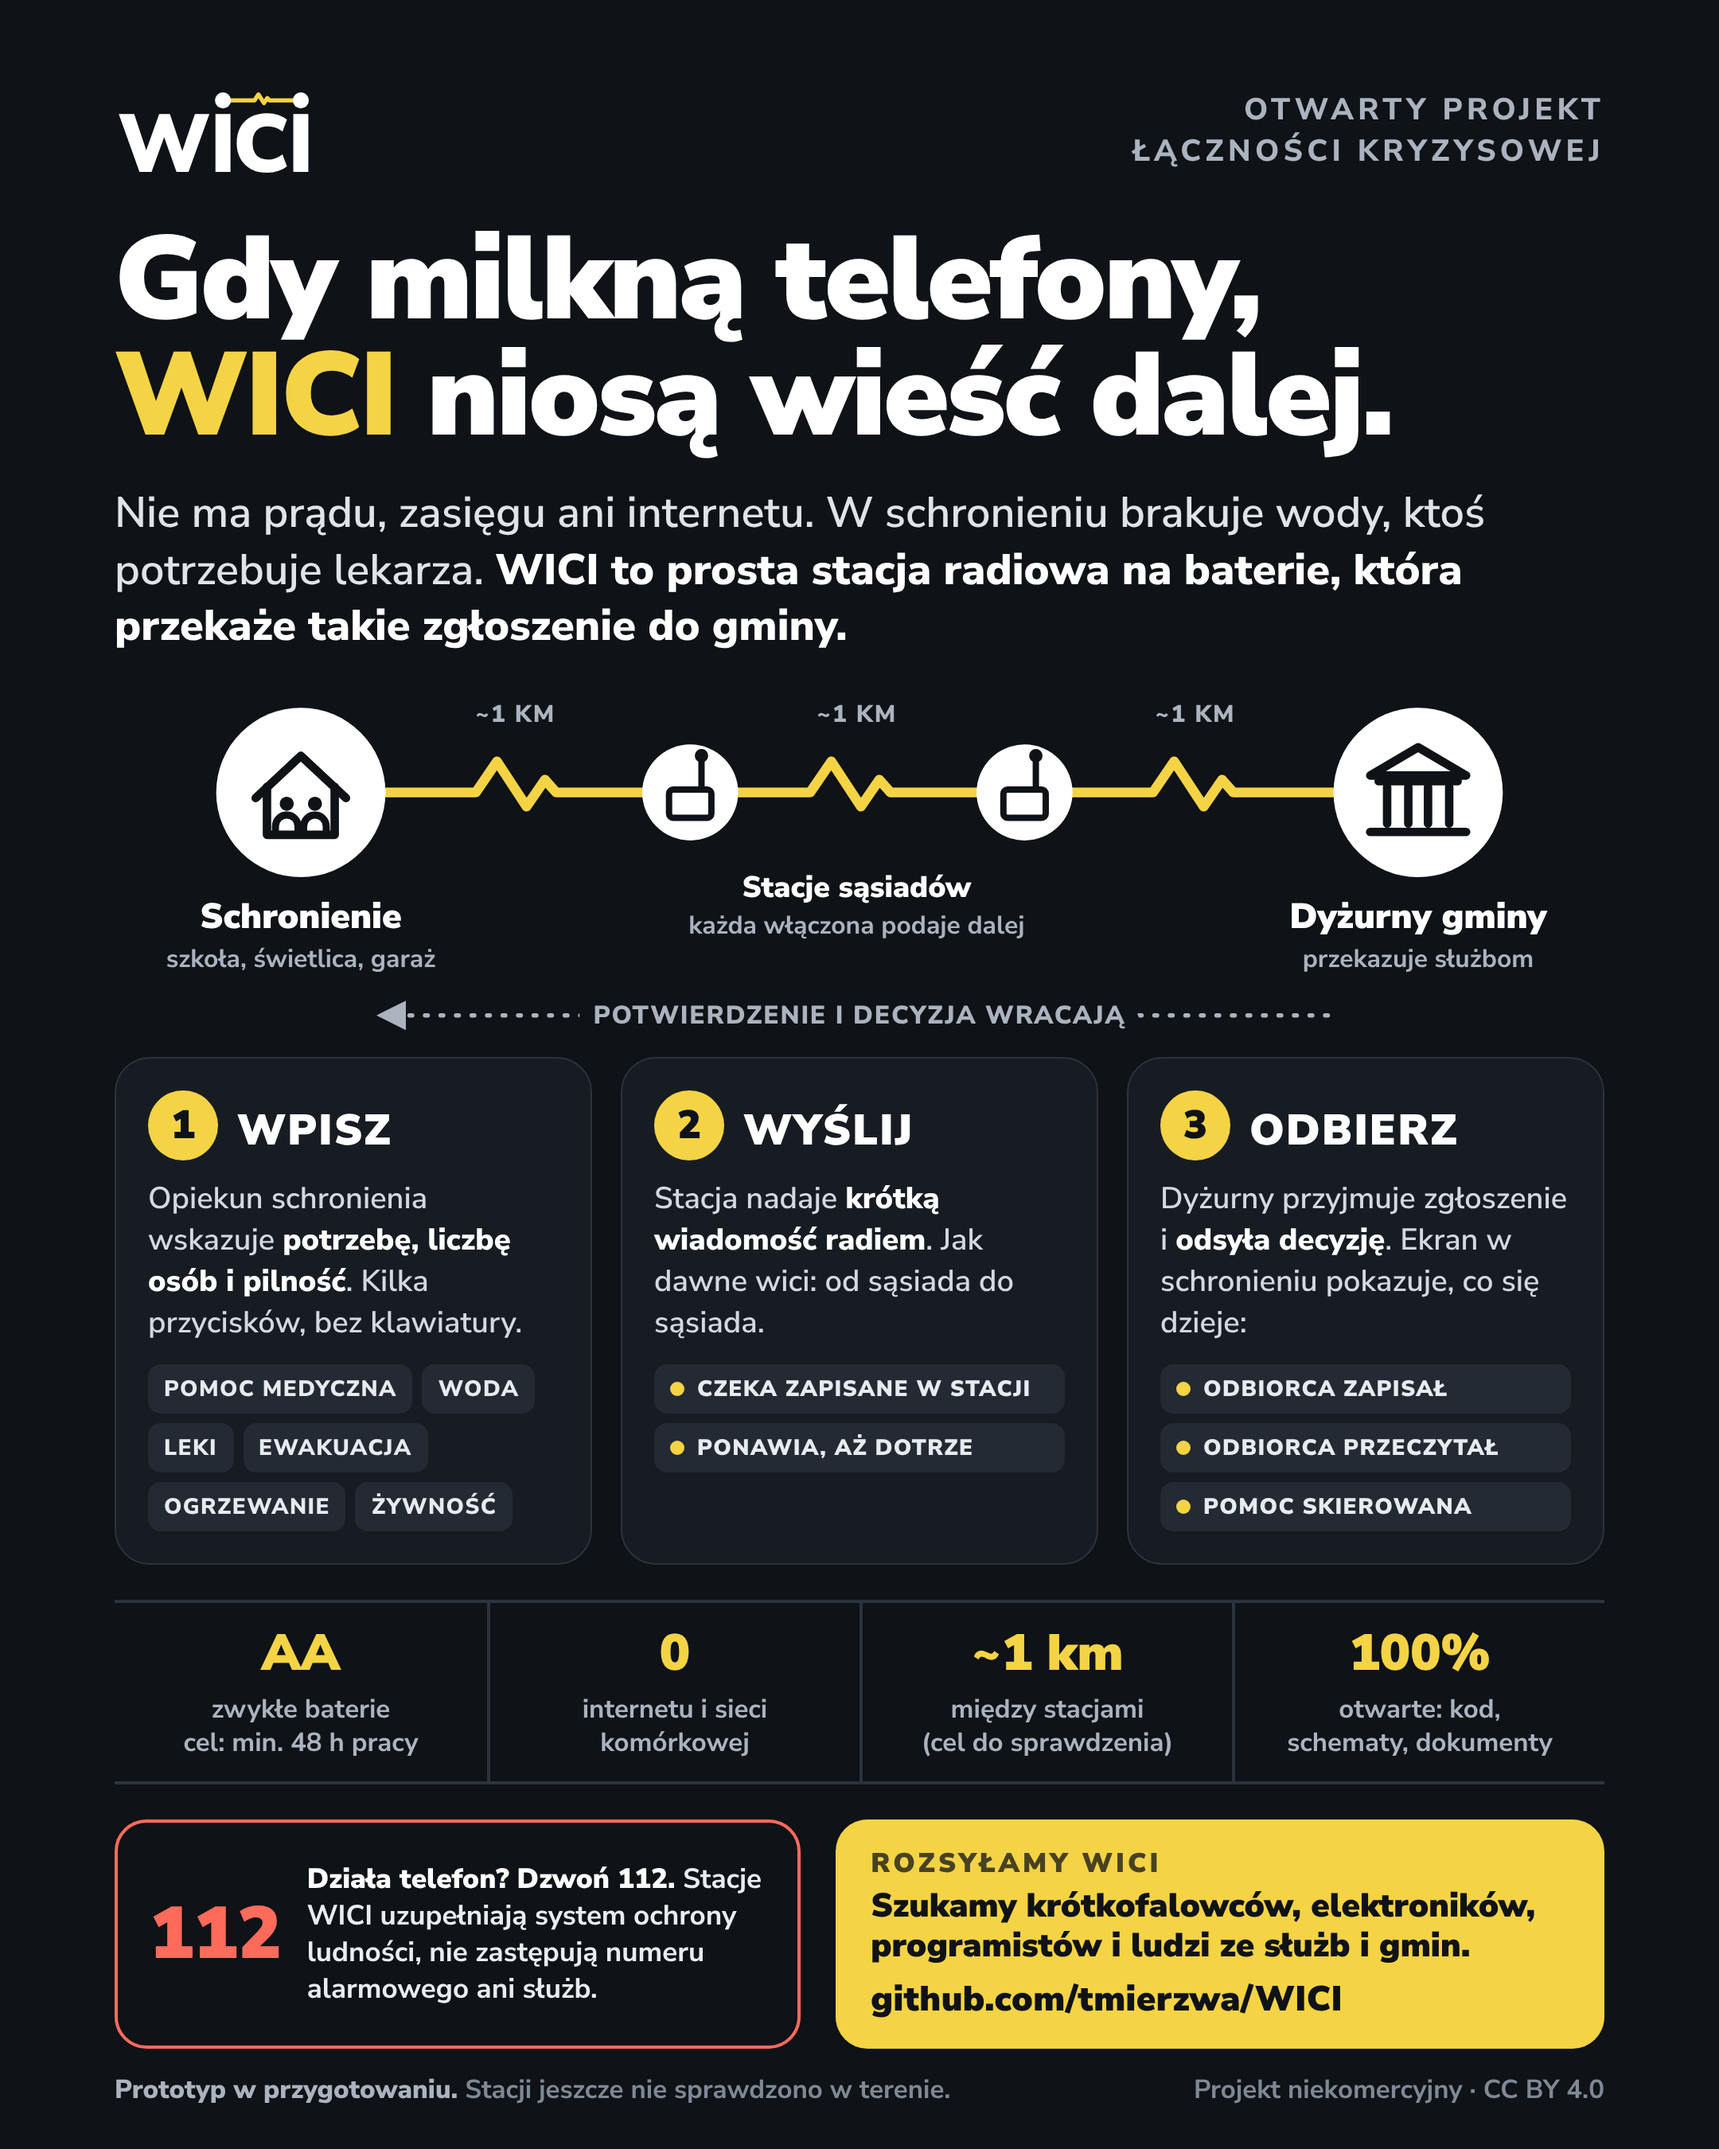
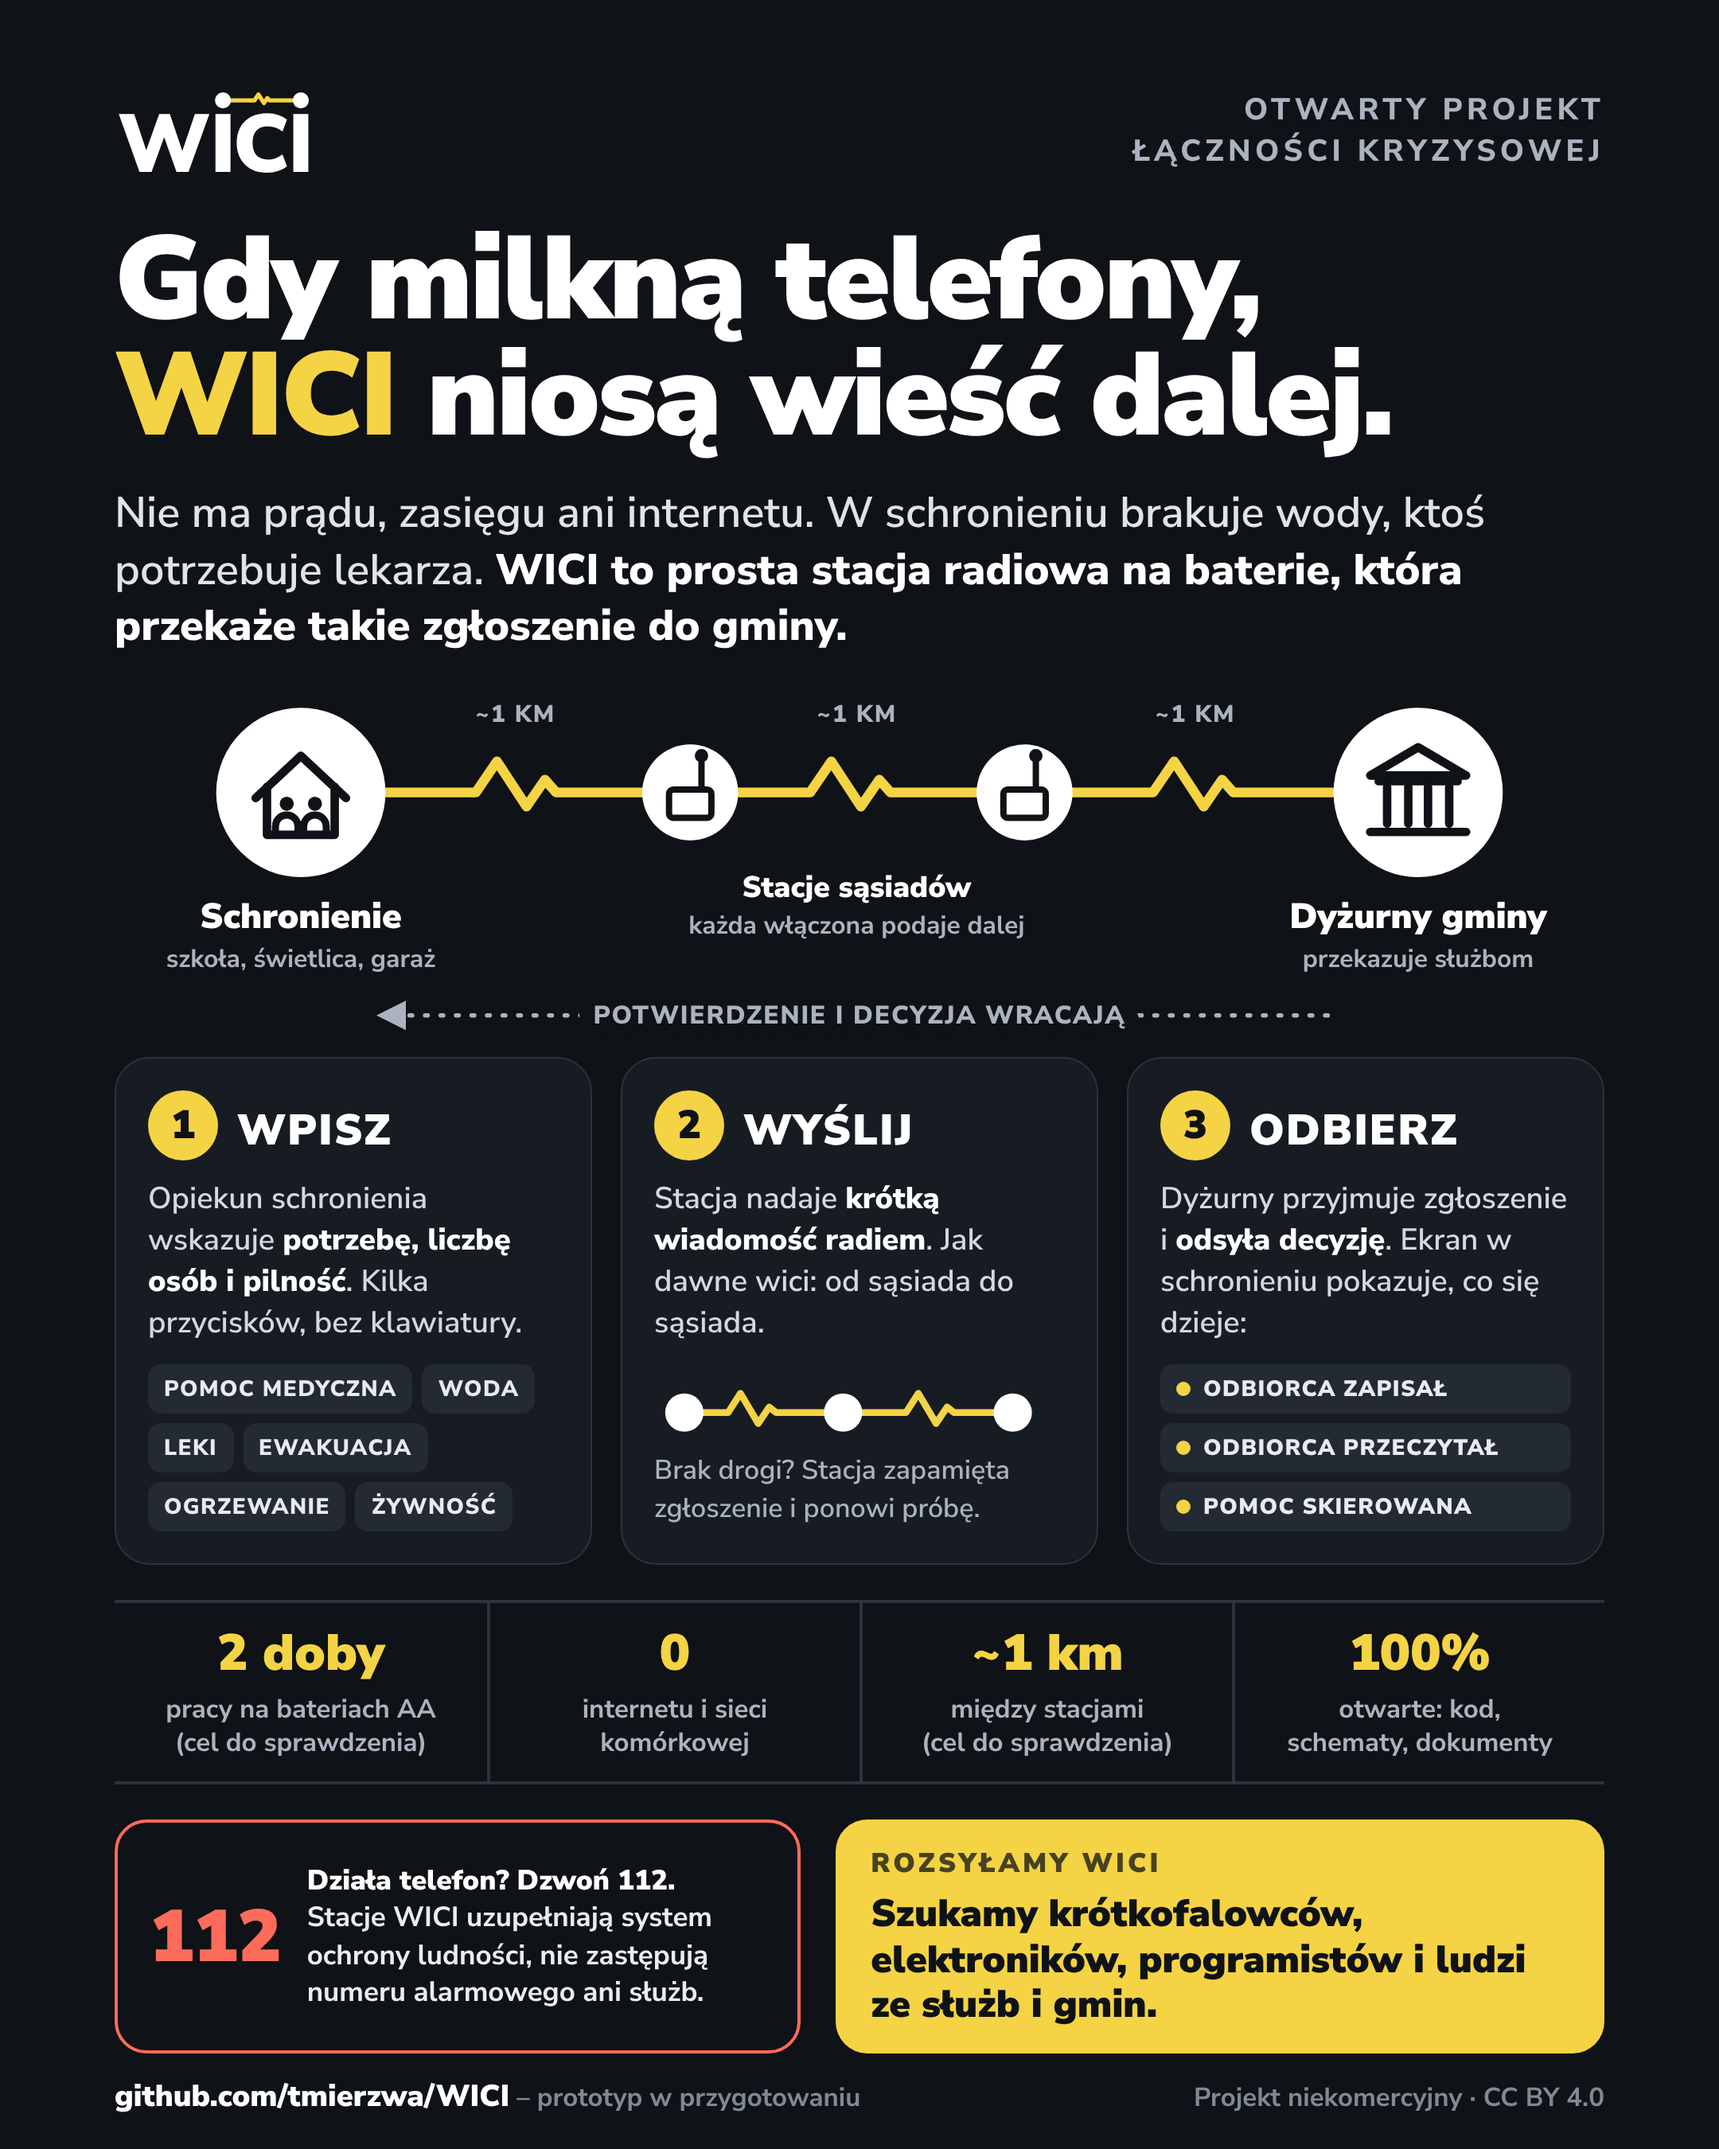
Infographic: relay graphic in step 2, battery days, link in footer
Claude-Session: https://claude.ai/code/session_01WCkYsu6pvnXAe7WXZ7mzF5

diff --git a/media/infografika/infografika.html b/media/infografika/infografika.html
@@ -52,11 +52,15 @@ h1 em{font-style:normal;color:var(--sig)}
 .warn p b{color:var(--ink);font-weight:900}
 .cta{background:var(--sig);color:var(--bg);border-radius:20px;padding:16px 22px}
 .cta .k{font-size:17px;font-weight:950;letter-spacing:.12em;text-transform:uppercase;opacity:.75}
-.cta .h{margin-top:3px;font-size:21px;line-height:1.2;font-weight:950}
+.cta{display:flex;flex-direction:column;justify-content:center}
+.cta .h{margin-top:6px;font-size:24px;line-height:1.2;font-weight:950}
 .cta .u{margin-top:6px;font-size:22px;font-weight:950;letter-spacing:.01em}
 
 .foot{margin-top:14px;display:flex;justify-content:space-between;font-size:16.5px;font-weight:700;color:#7f8996}
-.foot b{color:var(--muted);font-weight:850}
+.foot b{color:var(--ink);font-weight:900;font-size:19px}
+.foot{align-items:baseline}
+.mini{display:block;width:100%;height:auto;margin-top:20px}
+.note{font-size:17px!important;color:var(--muted)!important;margin-top:10px!important}
 </style>
 </head>
 <body>
@@ -124,7 +128,7 @@ h1 em{font-style:normal;color:var(--sig)}
 
   <div class="steps">
     <div class="step"><span class="num">1</span><h3 data-t="s1h"></h3><p data-t="s1"></p><div class="chips" id="chips"></div></div>
-    <div class="step"><span class="num">2</span><h3 data-t="s2h"></h3><p data-t="s2"></p><div class="status" id="s2x"></div></div>
+    <div class="step"><span class="num">2</span><h3 data-t="s2h"></h3><p data-t="s2"></p><svg class="mini" viewBox="0 0 300 44" aria-hidden="true"><g fill="none" stroke="#f4d345" stroke-width="5" stroke-linejoin="round" stroke-linecap="round"><path d="M22 26H54L63 12L76 34L84 22L89 26H124"/><path d="M152 26H184L193 12L206 34L214 22L219 26H254"/></g><g fill="#fff"><circle cx="22" cy="26" r="14"/><circle cx="138" cy="26" r="14"/><circle cx="262" cy="26" r="14"/></g></svg><p class="note" data-t="s2x"></p></div>
     <div class="step"><span class="num">3</span><h3 data-t="s3h"></h3><p data-t="s3"></p><div class="status" id="status"></div></div>
   </div>
 
@@ -132,7 +136,7 @@ h1 em{font-style:normal;color:var(--sig)}
 
   <div class="bottom">
     <div class="warn"><div class="n">112</div><p data-t="warn"></p></div>
-    <div class="cta"><div class="k" data-t="ctak"></div><div class="h" data-t="ctah"></div><div class="u">github.com/tmierzwa/WICI</div></div>
+    <div class="cta"><div class="k" data-t="ctak"></div><div class="h" data-t="ctah"></div></div>
   </div>
   <div class="foot"><span data-t="foot1"></span><span data-t="foot2"></span></div>
 </div>
@@ -151,14 +155,14 @@ pl:{
  s1h:"Wpisz", s1:"Opiekun schronienia wskazuje <b>potrzebę, liczbę osób i pilność</b>. Kilka przycisków, bez klawiatury.",
  chips:["Pomoc medyczna","Woda","Leki","Ewakuacja","Ogrzewanie","Żywność"],
  s2h:"Wyślij", s2:"Stacja nadaje <b>krótką wiadomość radiem</b>. Jak dawne wici: od sąsiada do sąsiada.",
- s2x:["Czeka zapisane w stacji","Ponawia, aż dotrze"],
+ s2x:"Brak drogi? Stacja zapamięta zgłoszenie i&nbsp;ponowi próbę.",
  s3h:"Odbierz", s3:"Dyżurny przyjmuje zgłoszenie i <b>odsyła decyzję</b>. Ekran w schronieniu pokazuje, co się dzieje:",
  status:["Odbiorca zapisał","Odbiorca przeczytał","Pomoc skierowana"],
- facts:[["AA","zwykłe baterie<br>cel: min. 48 h pracy"],["0","internetu i sieci<br>komórkowej"],["~1 km","między stacjami<br>(cel do sprawdzenia)"],["100%","otwarte: kod,<br>schematy, dokumenty"]],
- warn:"<b>Działa telefon? Dzwoń 112.</b> Stacje WICI uzupełniają system ochrony ludności, nie zastępują numeru alarmowego ani służb.",
+ facts:[["2 doby","pracy na bateriach AA<br>(cel do sprawdzenia)"],["0","internetu i sieci<br>komórkowej"],["~1 km","między stacjami<br>(cel do sprawdzenia)"],["100%","otwarte: kod,<br>schematy, dokumenty"]],
+ warn:"<b>Działa telefon? Dzwoń 112.</b><br>Stacje WICI uzupełniają system ochrony ludności, nie zastępują numeru alarmowego ani służb.",
  ctak:"Rozsyłamy WICI",
  ctah:"Szukamy krótkofalowców, elektroników, programistów i ludzi ze służb i gmin.",
- foot1:"<b>Prototyp w przygotowaniu.</b> Stacji jeszcze nie sprawdzono w terenie.",
+ foot1:"<b>github.com/tmierzwa/WICI</b> – prototyp w przygotowaniu",
  foot2:"Projekt niekomercyjny · CC BY 4.0"
 },
 en:{
@@ -173,14 +177,14 @@ en:{
  s1h:"Enter", s1:"The shelter warden picks <b>the need, number of people and urgency</b>. A few buttons, no keyboard.",
  chips:["Medical help","Water","Medicines","Evacuation","Heating","Food"],
  s2h:"Send", s2:"The station sends <b>a short radio message</b>, relayed neighbour to neighbour.",
- s2x:["Saved in the station","Retries until delivered"],
+ s2x:"No route yet? The station keeps the request and tries again.",
  s3h:"Receive", s3:"The duty officer takes the request and <b>sends back the decision</b>. The shelter's screen shows progress:",
  status:["Recipient saved it","Recipient read it","Help dispatched"],
- facts:[["AA","ordinary batteries<br>target: 48 h+"],["0","internet or mobile<br>network needed"],["~1 km","between stations<br>(target, to be tested)"],["100%","open: code,<br>hardware, docs"]],
- warn:"<b>Phone working? Call 112.</b> WICI stations support local civil protection. They do not replace the emergency number or services.",
+ facts:[["2 days","on AA batteries<br>(target, to be tested)"],["0","internet or mobile<br>network needed"],["~1 km","between stations<br>(target, to be tested)"],["100%","open: code,<br>hardware, docs"]],
+ warn:"<b>Phone working? Call 112.</b><br>WICI stations support local civil protection. They do not replace the emergency number or services.",
  ctak:"Spread the word",
  ctah:"Looking for radio amateurs, engineers, developers and civil-protection people.",
- foot1:"<b>Prototype in preparation.</b> Not yet field-tested.",
+ foot1:"<b>github.com/tmierzwa/WICI</b> – prototype in preparation",
  foot2:"Non-commercial project · CC BY 4.0"
 }};
 const lang=(new URLSearchParams(location.search).get("lang"))||"pl";
@@ -188,7 +192,6 @@ const t=T[lang]; document.documentElement.lang=lang;
 document.querySelectorAll("[data-t]").forEach(e=>{e.innerHTML=t[e.dataset.t]});
 document.getElementById("chips").innerHTML=t.chips.map(c=>`<span class="chip">${c}</span>`).join("");
 document.getElementById("status").innerHTML=t.status.map(c=>`<span><i></i>${c}</span>`).join("");
-document.getElementById("s2x").innerHTML=t.s2x.map(c=>`<span><i></i>${c}</span>`).join("");
 document.getElementById("facts").innerHTML=t.facts.map(([a,b])=>`<div class="fact"><strong>${a}</strong><span>${b}</span></div>`).join("");
 </script>
 <script>
